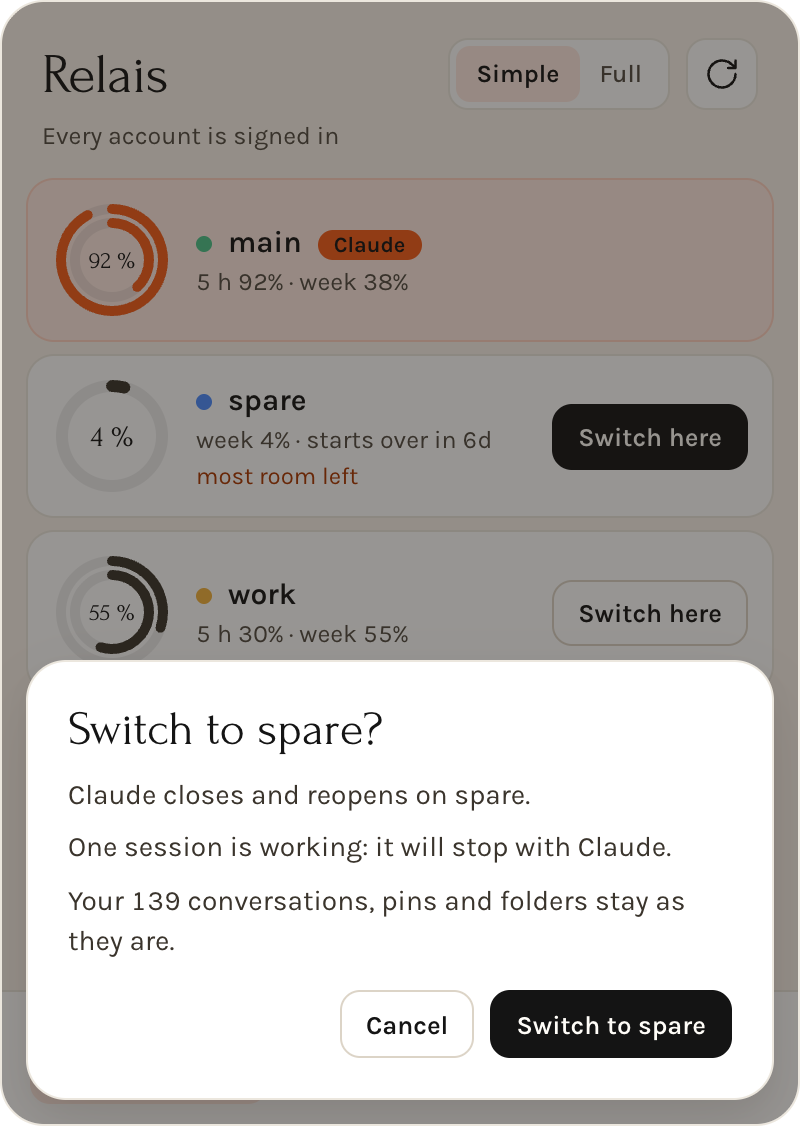
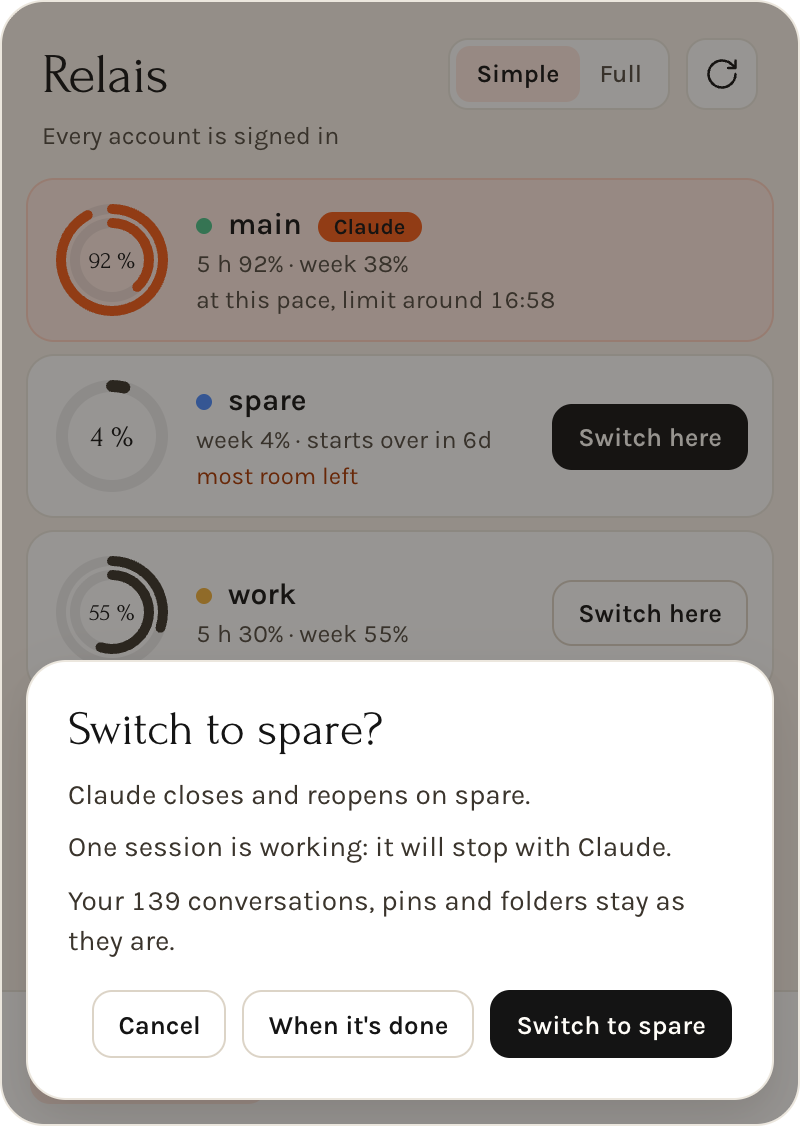
Prepare 0.2.0: say what is new, and show it

diff --git a/docs/index.html b/docs/index.html
@@ -36,7 +36,7 @@
             "image": "https://bvisible.github.io/relais/assets/social-preview.png",
             "applicationCategory": "DeveloperApplication",
             "operatingSystem": "macOS 13 or later",
-            "softwareVersion": "0.1.0",
+            "softwareVersion": "0.2.0",
             "downloadUrl": "https://github.com/bvisible/relais/releases/latest",
             "license": "https://opensource.org/licenses/MIT",
             "isAccessibleForFree": true,
@@ -413,17 +413,17 @@
             <div>
               <img class="shot" src="assets/panel-full.png" width="400" height="720" loading="lazy" alt="Relais full view: where each Claude account works, its limits and its usage day by day" />
               <h3>Claude usage limits at a glance</h3>
-              <p>Five-hour and weekly limits, day by day, for every account, measured on its own every quarter of an hour.</p>
+              <p>Five-hour and weekly limits for every account, a forecast at your current pace, and an alert before you hit the wall.</p>
             </div>
             <div>
               <img class="shot" src="assets/confirm.png" width="400" height="563" loading="lazy" alt="Relais confirmation before switching Claude accounts" />
               <h3>You decide, always</h3>
-              <p>Relais marks the account with the most room left. It never switches on its own, and every switch can be undone by switching back.</p>
+              <p>Relais marks the account with the most room left and can wait for your sessions to finish. It never switches on its own, and what a switch stopped is one click from running again.</p>
             </div>
             <div>
               <img class="shot" src="assets/panel-dark.png" width="400" height="563" loading="lazy" alt="Relais in dark mode on macOS" />
               <h3>Made for the menu bar</h3>
-              <p>Your current account and its limits stay in the menu bar, in light and dark, in English and French.</p>
+              <p>Your limits stay in the menu bar and in a widget, one shortcut from the panel, in light and dark, in English and French.</p>
             </div>
           </div>
         </div>
@@ -440,7 +440,8 @@
       <section id="install">
         <div class="wrap">
           <h2>Install Relais</h2>
-          <p class="lead">Open the DMG and drag Relais to Applications. It needs macOS 13 or later on Apple Silicon, and is tested on macOS 26 and 27. The app is signed with a Developer ID and notarized by Apple.</p>
+          <p class="lead">Open the DMG and drag Relais to Applications. It needs macOS 13 or later, on Apple Silicon or Intel. The app is signed with a Developer ID, notarized by Apple, and offers new versions by itself.</p>
+          <pre><code>brew install --cask bvisible/tap/relais</code></pre>
           <a class="button" href="https://github.com/bvisible/relais/releases/latest">Download Relais</a>
           <p class="assurance"><a href="https://github.com/bvisible/relais#install">Setup guide and build from source</a></p>
         </div>

diff --git a/README.md b/README.md
@@ -29,6 +29,18 @@ Relais keeps one workspace and changes only the sign-in:
 - **It tells you where to go.** The account with the most room left is marked. Relais suggests, you decide: it never switches on its own.
 - **Your credentials stay yours.** Relais never reads, copies or stores a token, a cookie or a password.
 
+## What else it does
+
+- **Alerts before the limit.** A notification at 85% and 95% of a limit names the account with the most room, and its button opens the confirmation. Another tells you when a paused account is back.
+- **Forecast.** At the current pace, the panel says when the account in use reaches its limit.
+- **Resume what a switch stopped.** The sessions a switch interrupted are listed afterwards, one click from running again.
+- **Switch when it's done.** With sessions running, Relais can wait, tell you when they finish, and ask again.
+- **Where the week went.** See which projects consumed the most this week, in the panel or with `relais projects`.
+- **One account per folder.** `relais folder set work ~/Projects/client` makes Claude Code always start there on that account.
+- **A widget and a shortcut.** Put your limits on the desktop, and open the panel from anywhere with Control-Option-R.
+- **Updates in one click.** Relais tells you when a new version is out and installs it when you say so.
+- **Careful with Claude Desktop updates.** Relais checks the workspace before anything moves, refuses what it does not recognize, and warns you about a newer major version.
+
 ## Screenshots
 
 <table>
@@ -63,11 +75,17 @@ More detail in the [design document](docs/design.md).
 
 Relais does not read, copy, refresh or store any OAuth token, session cookie or Keychain secret. You sign in through Anthropic's own apps, they keep and refresh their logins as usual, and Relais only moves Desktop's sign-in files aside and back by renaming them, without opening them. That removes the whole class of "dead token" bugs that tools copying tokens have to chase.
 
-Relais makes no call to Anthropic either. Usage comes from what Claude Code hands to its status line, from the history the desktop app keeps, and from Claude Code's own `/usage` panel: every quarter of an hour the app opens the official client in a private terminal, with nothing of yours loaded, reads the panel and closes it. No prompt is sent, nothing is billed and no conversation is saved.
+Relais makes no call to Anthropic either: the only request it makes itself is to GitHub, for new versions. Usage comes from what Claude Code hands to its status line, from the history the desktop app keeps, and from Claude Code's own `/usage` panel: every quarter of an hour the app opens the official client in a private terminal, with nothing of yours loaded, reads the panel and closes it. No prompt is sent, nothing is billed and no conversation is saved.
 
 ## Install
 
-**[Download Relais for Mac](https://github.com/bvisible/relais/releases/latest)**, open the DMG and drag Relais to Applications. It needs macOS 13 or later on Apple Silicon, and is tested on macOS 26 and 27. The app is signed with a Developer ID and notarized by Apple, so macOS opens it without a warning. There are no automatic updates yet: download new versions from the same page.
+**[Download Relais for Mac](https://github.com/bvisible/relais/releases/latest)**, open the DMG and drag Relais to Applications, or use Homebrew:
+
+```bash
+brew install --cask bvisible/tap/relais
+```
+
+It needs macOS 13 or later, and runs on Apple Silicon and Intel. It is tested on macOS 26 and 27 on Apple Silicon, and its command and test suite also run on an Intel Mac in CI. The widget needs macOS 14. The app is signed with a Developer ID and notarized by Apple, so macOS opens it without a warning, and it offers new versions by itself.
 
 Link the command that comes with the app and register the account you are signed in with:
 
@@ -111,6 +129,8 @@ relais desktop --bring-back     # Desktop closed: put back the conversations a s
 relais switch next              # move only the terminal: a name, next, prev or best
 relais continue                 # carry the latest conversation over to the active account
 relais allow-measure            # answer, once, what Claude Code asks before Relais can measure
+relais projects                 # what each project consumed this week
+relais folder set work          # this folder always starts on work; `relais folder` lists them
 relais doctor                   # check sign-ins, links and integrations
 ```
 
@@ -146,11 +166,15 @@ No. Desktop has to restart on the other sign-in, so sessions working inside it s
 
 ### Which Claude plans does it work with?
 
-It is developed and used daily on Claude Max accounts, with or without the 5-hour limit, on Claude Desktop 3.6556 and Claude Code 2.1.314. Other plans should behave the same: please [open an issue](https://github.com/bvisible/relais/issues) if yours does not. A Claude update can change what Relais relies on.
+It is developed and used daily on Claude Max accounts, with or without the 5-hour limit. A real switch was last checked on Claude Desktop 3.6556 with Claude Code 2.1.314. Other plans should behave the same: please [open an issue](https://github.com/bvisible/relais/issues) if yours does not. A Claude update can change what Relais relies on, so it checks the workspace first and warns you about a newer major version.
 
-### Does Relais work on Windows, Linux or Intel Macs?
+### Does Relais work on Windows or Linux?
 
-Not for now. The download is for Macs with Apple Silicon, and Relais lives in the macOS menu bar.
+Not for now. Relais lives in the macOS menu bar.
+
+### Does Relais update itself?
+
+It tells you when a new version is out and installs it when you click. Each update is checked against a key built into the app.
 
 ### Is the Relais app signed and notarized?
 
